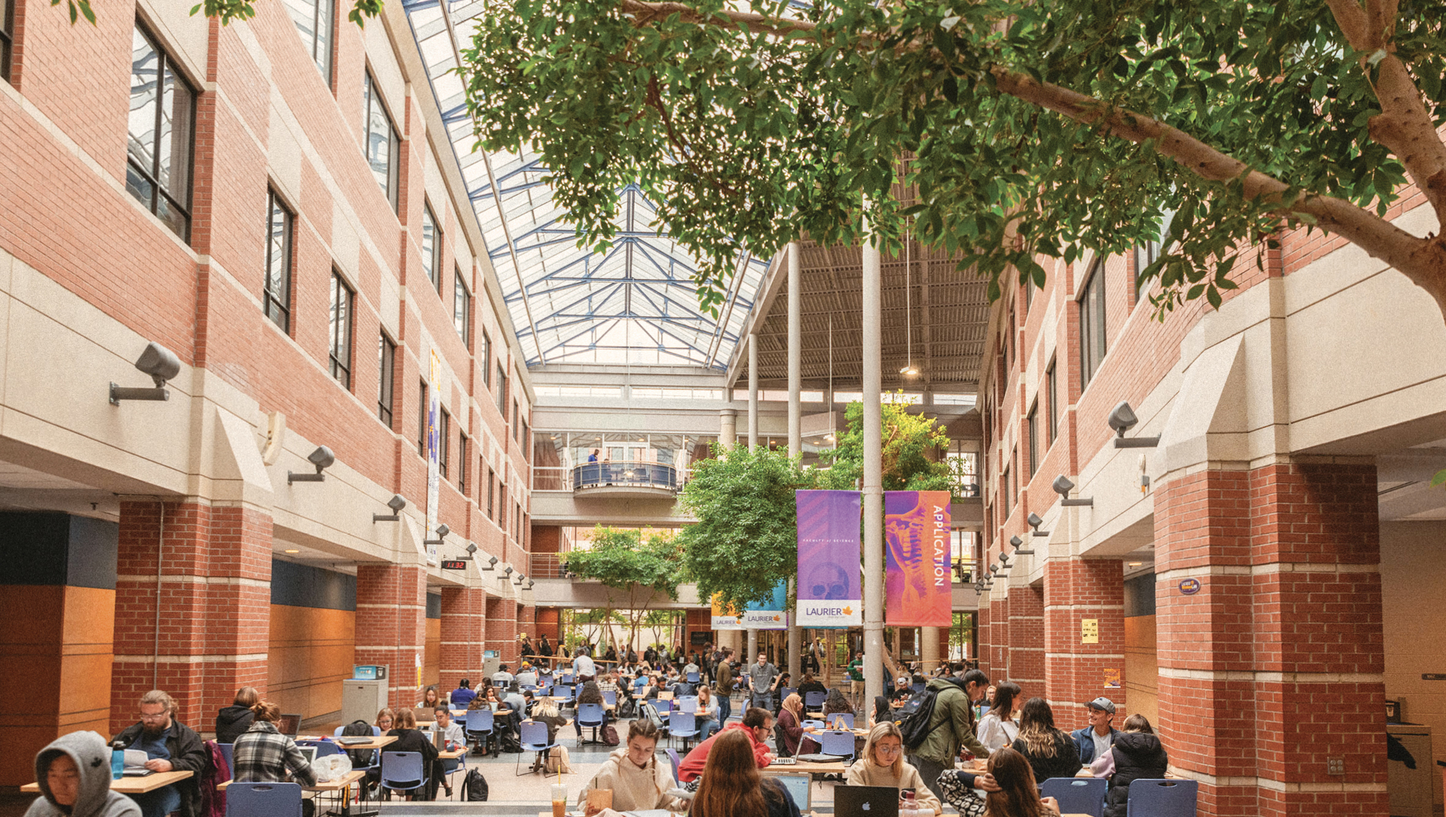
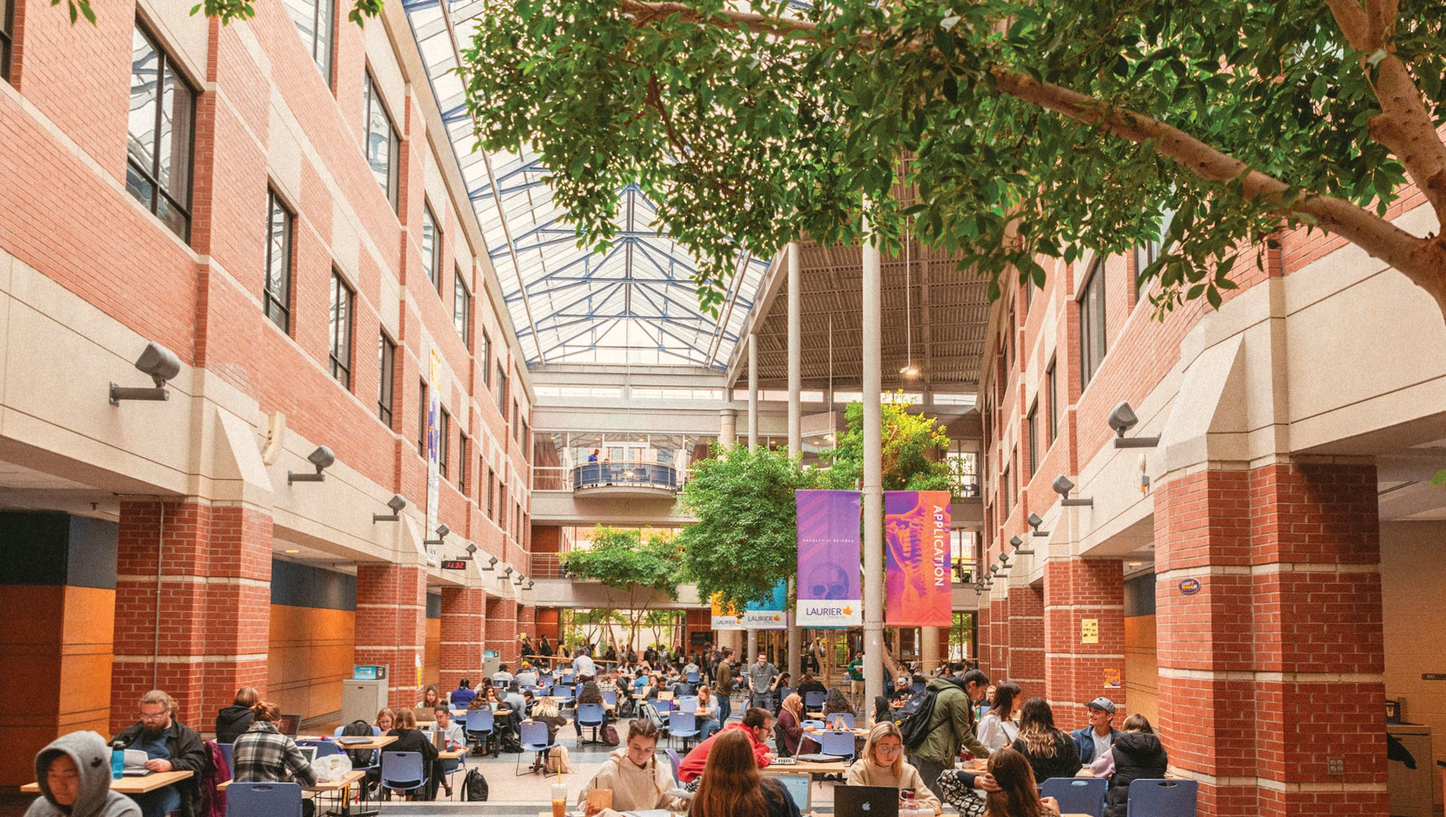
final bg images

diff --git a/src/App.tsx b/src/App.tsx
@@ -7,8 +7,8 @@ import Giant from "./components/Giant";
 
 // image imports
 import experience from "./assets/experience.jpg";
-import hackathons from "./assets/hackathons.png";
-import projects from "./assets/projects.png";
+import hackathons from "./assets/hackathons.jpg";
+import projects from "./assets/projects.jpg";
 import contacts from "./assets/contacts.jpg";
 
 function App() {
